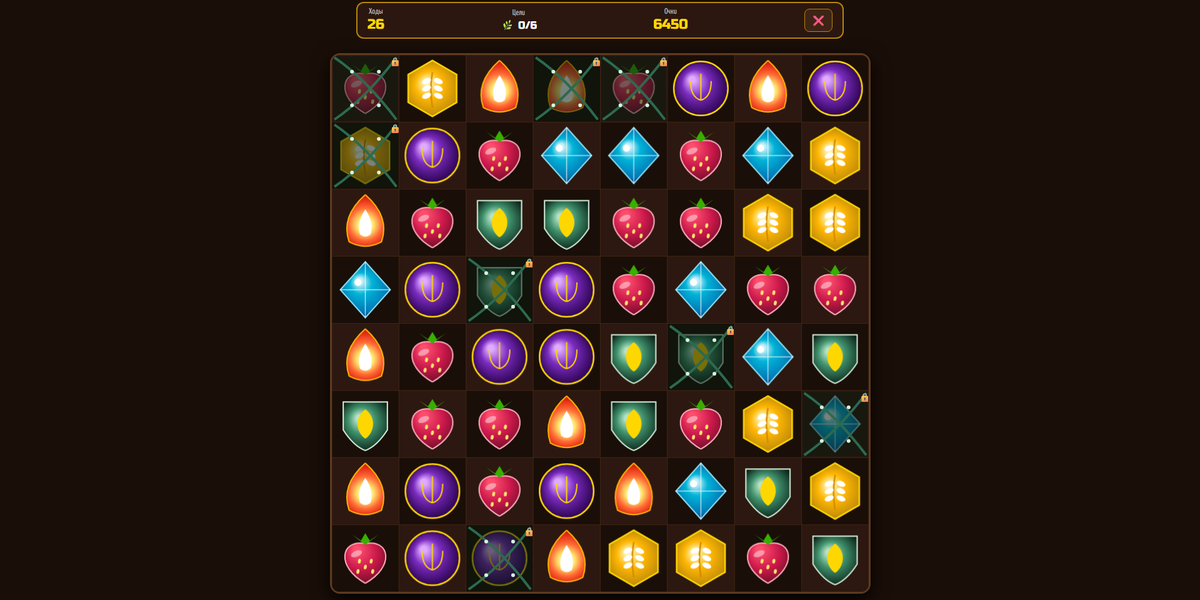
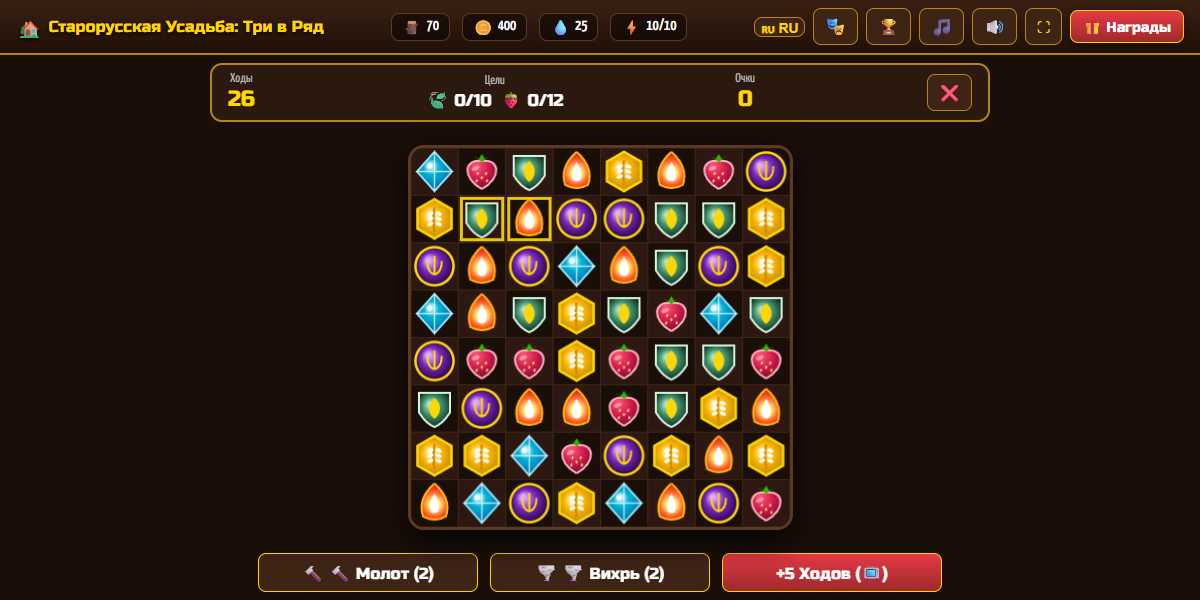
feat(screenshots): capture real in-game gameplay screenshots (match-3, village, heroes, market)

diff --git a/README.md b/README.md
@@ -82,10 +82,10 @@
 - `icon_278x278.png` — иконка для каталога игр ВК (278x278 px)
 - `icon_150x150.png` — малая иконка (150x150 px)
 - `snippet_1120x630.png` — большой сниппет / обложка игры (1120x630 px)
-- `screenshot_1_match3_1200x600.png` — скриншот геймплея 1: Три в ряд (1200x600 px)
-- `screenshot_2_boss_battle_1200x600.png` — скриншот геймплея 2: Битва с боссом (1200x600 px)
-- `screenshot_3_manor_village_1200x600.png` — скриншот геймплея 3: Строительство села (1200x600 px)
-- `screenshot_4_heroes_squad_1200x600.png` — скриншот геймплея 4: Дружина богатырей (1200x600 px)
+- `screenshot_1_match3_1200x600.png` — реальный геймплей: игровое поле «три в ряд», старорусские фишки, бустеры и цели (1200x600 px)
+- `screenshot_2_manor_village_1200x600.png` — реальный геймплей: главное село Усадьбы, постройки, богатырь и волхв Радогор (1200x600 px)
+- `screenshot_3_heroes_squad_1200x600.png` — реальный геймплей: дружина богатырей Руси (Илья Муромец, Добрыня, Алёша) (1200x600 px)
+- `screenshot_4_fair_market_1200x600.png` — реальный геймплей: ярмарка купца Садко Новгородского и торговля (1200x600 px)
 
 Для VK Play также подготовлен готовый ZIP-архив билда:
 `StarorusskayaUsadba_VK_Build.zip`
